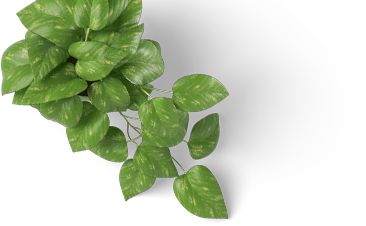
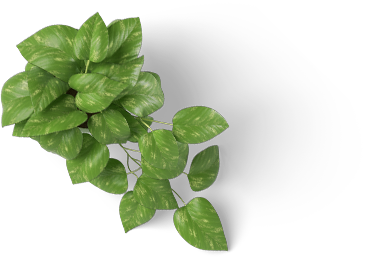
contact design part done

Changed region(s): [[0.0, 0.0, 0.6311, 0.9912]]

diff --git a/src/app/app.component.css b/src/app/app.component.css
@@ -82,11 +82,11 @@
 
 #scene-left .plantImgWrap{
   left: calc(15% - 183px) !important;
-  top: -15% !important;
+  top: -28% !important;
 }
 #scene-left .plantImg{
   width: 366px;
-  height: 226px;
+  height: 258px;
   background-image: url('../assets/plant.png');  
 }
 #scene-left .imacImgWrap{
@@ -109,7 +109,7 @@
 }
 
 #scene-left .glassesImgWrap{
-  left: calc(20% - 45px) !important;
+  left: calc(30% - 45px) !important;
   top: 60% !important;
 }
 #scene-left .glassesImg{
@@ -195,7 +195,7 @@
 /* --------------------------------------------- */
 #contact {
   position: absolute;
-  background-color: red;
+  background-color: #f5f7f9;
   width: 100%;
 }
 
@@ -210,7 +210,7 @@
   padding: 0px 0px 0px 7px;
   width: 65px;
   height: 65px;
-  background-color: #c80303;
+  background-color: #414159;
 }
 
 .contact-icon img {
@@ -218,7 +218,64 @@
 }
 
 .contact-contect {
+  color: #6f7c82;
+  font-family: 'roboto';
+  font-weight: normal;
+  font-style: normal;
+  font-size: 18px;
+  line-height: 28px;
   padding: 30px 0px 50px 0px;
+}
+
+.contact-contect h2{
+  font-family: 'roboto';
+  font-weight: 500;
+  font-style: normal;
+  font-size: 74px;
+  line-height: 100px;
+  color: #00263b;
+  margin: 0px 0px 73px 0px;
+}
+
+.contact-contect h3 {
+  color: #00263b;
+  text-align: center;
+  font-family: 'roboto';
+  font-weight: 500;
+  font-style: normal;
+  font-size: 18px;
+  line-height: 24px;
+}
+
+.contact-contect h4 {
+  text-align: center;
+  font-family: 'roboto';
+  font-weight: 300;
+  font-style: italic;
+  font-size: 18px;
+  line-height: 28px;
+  margin: 6px 0px 0px 0px;
+}
+
+.contact-contect label {
+  font-family: 'roboto';
+  font-weight: 300;
+  font-style: normal;
+  font-size: 16px;
+  line-height: 24px;
+  color: #eceff1;
+}
+
+.contact-contect .form{
+  padding: 60px 0px 0px 0px;
+}
+
+.contact-contect .splitter {
+  display: block;
+  background-color: #00263b;
+  margin: 0 auto;
+  width: 150px;
+  height: 1px;
 }
 
 .contact-right-bg {
@@ -227,30 +284,38 @@
   left: 50%;
   width: 50%;
   height: 100%;
-  background-color: #7b7c8d;
+  background-color: #484863;
 }
 
+/* Contact - Input part */
 input,
 textarea,
 [contenteditable] {
-  caret-color: #ffffff;
+  caret-color: #eceff1;
 }
 
 input, textarea {
+  font-family: 'roboto';
+  font-weight: 300;
+  font-style: normal;
+  font-size: 15px;
+  line-height: 24px;
   border-radius: 0px;
-  background-color: #7b7c8d;
-  color: #ffffff;
- 
+  border-color: #9b9ba8;
+  background-color: #414159;
+  color: #eceff1;
 }
 
 input:focus, textarea:focus {
+  color: #eceff1;
   border-radius: 0px;
-  border-color: #c80303;
-  background-color: red;
+  background-color: #414159;
+  border-color: #9b9ba8;
+  opacity: 0.8;
 }
 
 .textarea-container {
-  background-color: red;
+  background-color: #414159;
 }
 
 textarea {
@@ -261,4 +326,89 @@ textarea {
   line-height: 22.5px; 
   font-size: 15px; 
   background: transparent !important;
+}
+
+/* Contact - text part */
+.contact-contect table {
+  display: block;
+  width: 280px;
+  padding: 40px 0px 90px 0px;
+  margin: 0 auto;
+}
+
+.contact-contect tr{
+  height: 40px;
+}
+
+.contact-contect tr td img {
+  display: flex;
+  margin: 0 auto;
+  padding: 0px 20px 0px 0px;
+}
+
+/* Contact - Button part */
+.contact-contect .button {
+  font-family: 'roboto';
+  font-weight: normal;
+  font-style: normal;
+  font-size: 16px;
+  line-height: 24px;
+  float: left;
+  border: 1px #9b9ba8 solid;
+  width: 160px;
+  height: 40px;
+  margin: 30px 0px 0px 0px;
+	display: block;
+	background: none;
+  color: #eceff1;
+  cursor: pointer;
+	position: relative;
+	z-index: 1;
+	-webkit-backface-visibility: hidden;
+  -moz-osx-font-smoothing: grayscale;
+  -webkit-transition: width 2s; /* Safari */
+    transition: width 2s;
+}
+.contact-contect .button:focus {
+	outline: none;
+}
+
+.contact-contect .button:active {
+  border: 2px #9b9ba8 solid;
+}
+
+.contact-contect .button-animation {
+	-webkit-transition: border-color 0.4s, color 0.4s;
+	transition: border-color 0.4s, color 0.4s;
+}
+.contact-contect .button-animation::before {
+	content: '';
+	position: absolute;
+	top: 0;
+	left: 0;
+	width: 100%;
+	height: 100%;
+	background: #414159;
+	z-index: -1;
+	opacity: 0;
+	-webkit-transform: scale3d(0.7, 1, 1);
+	transform: scale3d(0.7, 1, 1);
+	-webkit-transition: -webkit-transform 0.4s, opacity 0.4s;
+	transition: transform 0.4s, opacity 0.4s;
+	-webkit-transition-timing-function: cubic-bezier(0.2, 1, 0.3, 1);
+	transition-timing-function: cubic-bezier(0.2, 1, 0.3, 1);
+}
+.contact-contect .button-animation,
+.contact-contect .button-animation::before {
+	-webkit-transition-timing-function: cubic-bezier(0.2, 1, 0.3, 1);
+	transition-timing-function: cubic-bezier(0.2, 1, 0.3, 1);
+}
+.contact-contect .button-animation:hover {
+	color: #fff;
+	border-color: #9b9ba8;
+}
+.contact-contect .button-animation:hover::before {
+	opacity: 1;
+	-webkit-transform: translate3d(0, 0, 0);
+	transform: translate3d(0, 0, 0);
 }

diff --git a/src/app/app.component.html b/src/app/app.component.html
@@ -109,37 +109,67 @@
     <div class="row">
       <!-- Contact -->
       <div class="col-5">
-        <h2>Contact</h2>
+        <h2>Kontakt</h2>
+        <h3>Michal Mikuš</h3>
+        <span class="splitter"></span>
+        <h4>Owner</h4>
+        <table>
+          <tr>
+            <td><img src="../assets/contact_grey.png" alt="Telephone" /></td>
+            <td>+421 908 755 170</td>
+          </tr>
+          <tr>
+            <td><img src="../assets/email_gray.png" alt="Email" /></td>
+            <td>michal.mikus@kongera.com</td>
+          </tr>
+        </table>
+
+        <h3>Matej Mikuš</h3>
+        <span class="splitter"></span>
+        <h4>Owner</h4>
+        <table>
+            <tr>
+              <td><img src="../assets/contact_grey.png" alt="Telephone" /></td>
+              <td>+420 734 150 740</td>
+            </tr>
+            <tr>
+              <td><img src="../assets/email_gray.png" alt="Email" /></td>
+              <td>matej.mikus@kongera.com</td>
+            </tr>
+          </table>
+
+          <p>&copy; 2017 Kongera.com<p>
       </div>
 
       <!-- Contact form -->
-      <div class="col-5 offset-2">
-        Contact form
+      <div class="form col-5 offset-2">
         <div class="form-group">
-          <label class="col-form-label" for="inputDefault">Default input</label>
-          <input type="text" class="form-control" 
-          placeholder="Default input" id="inputDefault1">
+          <label class="col-form-label" for="name">Jméno</label>
+          <input type="text" class="form-control" id="name">
         </div>
 
         <div class="form-group">
-          <label class="col-form-label" for="inputDefault">Default input</label>
-          <input type="text" class="form-control" 
-                 placeholder="Default input" id="inputDefault2">
+          <label class="col-form-label" for="inputDefault">Telefon</label>
+          <input type="text" class="form-control" id="Phone">
         </div>
 
         <div class="form-group">
-          <label class="col-form-label" for="inputDefault">Default input</label>
-          <input type="text" class="form-control" 
-                 placeholder="Default input" id="inputDefault3">
+          <label class="col-form-label" for="inputDefault">Email</label>
+          <input type="text" class="form-control" id="Email">
         </div>
 
         <div class="form-group">
-          <label for="exampleTextarea">Example textarea</label>
+          <label for="exampleTextarea">Zpráva pro nás</label>
           <div class="textarea-container">
-            <textarea class="form-control" id="exampleTextarea" rows="4"></textarea>
+            <textarea class="form-control" id="message" rows="8"></textarea>
           </div>
+        </div>
+
+        <div class="form-group float-right">
+          <button class="button button-animation">Publish</button>
         </div>
       </div>
     </div>
   </div>
 </section>
+

diff --git a/src/styles.css b/src/styles.css
@@ -114,7 +114,7 @@ header {
 }
 
 header .row {
-  margin: -5px 0px 0px 0px;  
+  margin: 0px 0px 0px 0px;  
   display: flex;
   flex-direction: row;
   justify-content: space-between;
